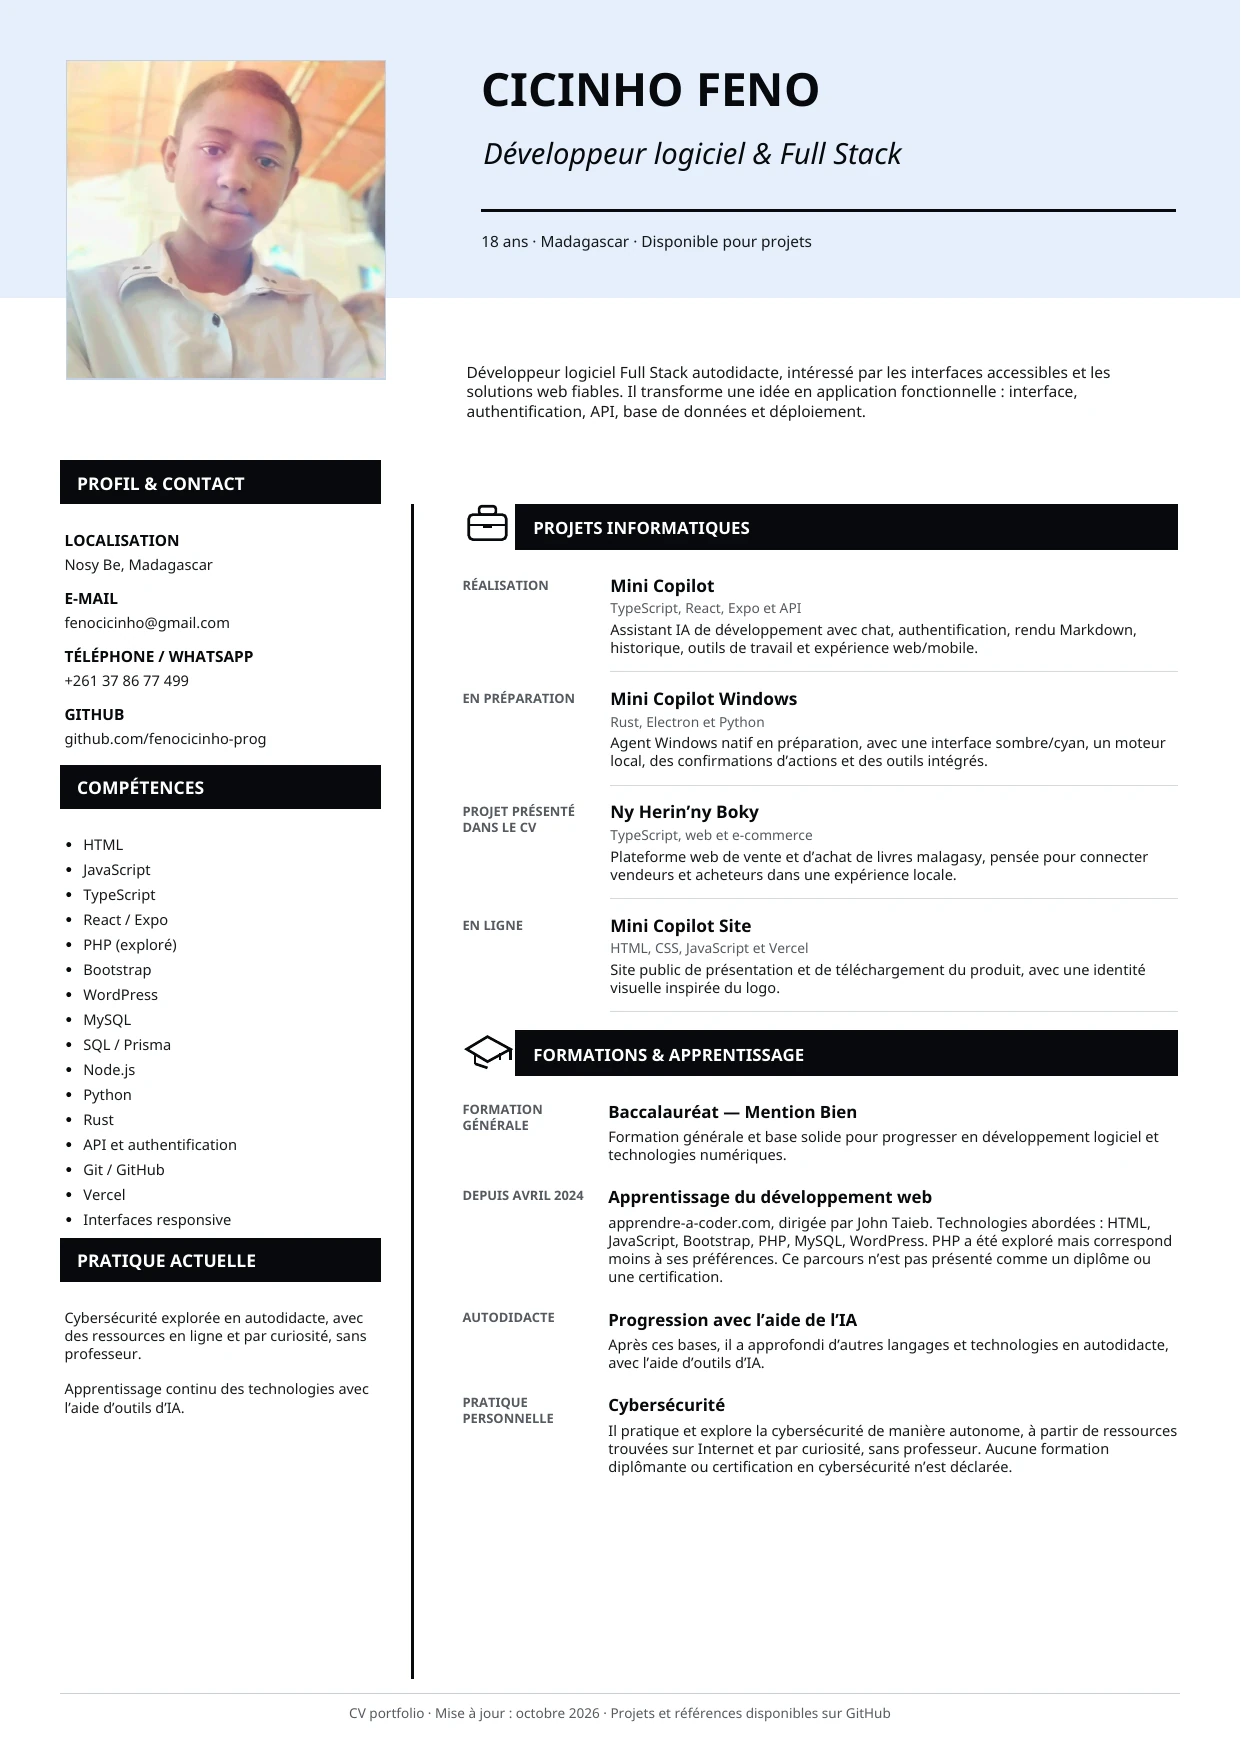
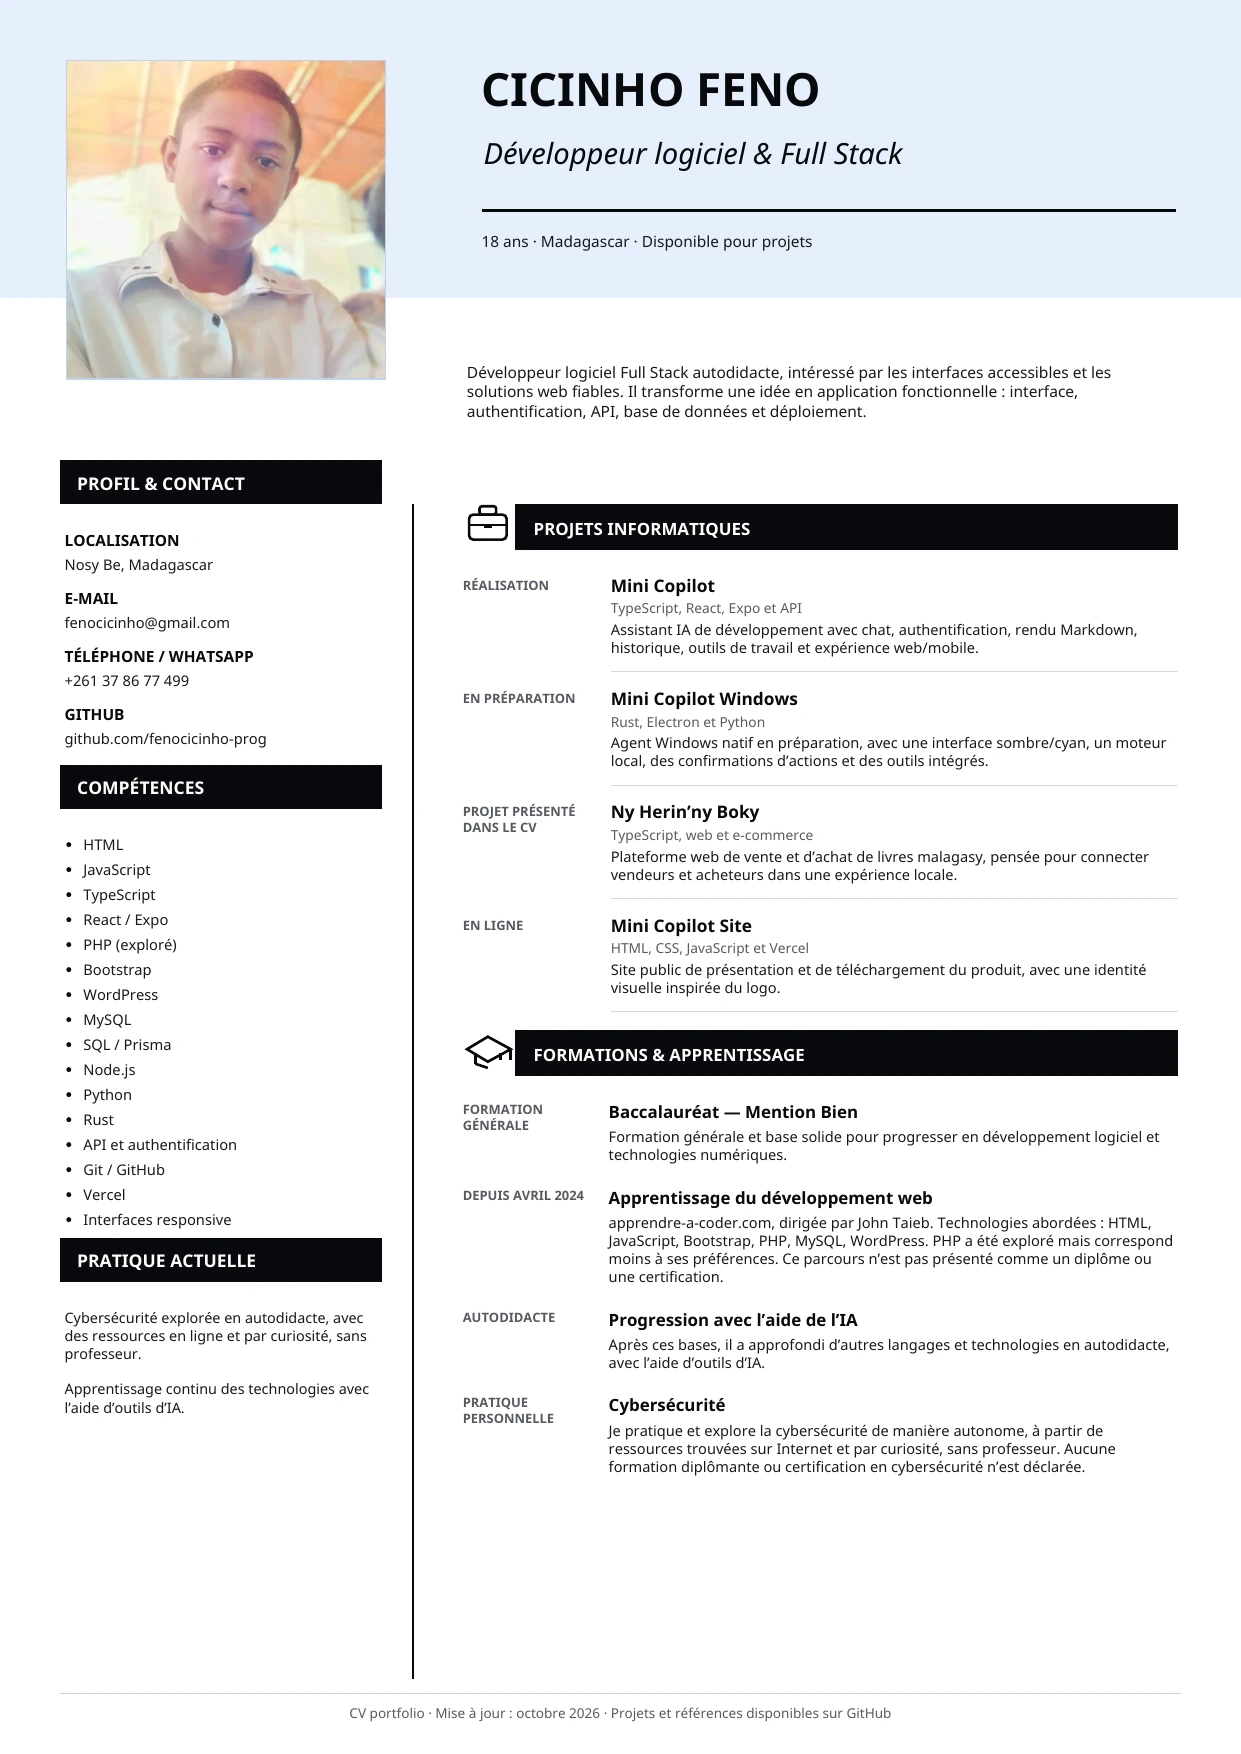
Use corrected CV and dynamic OpenRouter portfolio assistant

diff --git a/app/api/chat/route.ts b/app/api/chat/route.ts
@@ -1,131 +1,130 @@
 import { NextResponse } from "next/server";
 import { systemPrompt } from "@/content/bot";
-import { cv } from "@/content/cv";
 import { clientIp, hashIp, isSessionId, logChat } from "@/lib/db";
 
-// Limite simple par visiteur (en mémoire : protection de base, pas absolue).
+export const runtime = "nodejs";
+
+// Limite par visiteur et par instance : protection de base contre les abus.
 const hits = new Map<string, { n: number; t: number }>();
 const WINDOW = 10 * 60_000;
 const MAX = 20;
+const MAX_MESSAGES = 6;
+const MAX_MESSAGE_LENGTH = 500;
+const MAX_BODY_BYTES = 16_000;
+const CHAT_UNAVAILABLE =
+  "Je n’arrive pas à joindre mon assistant pour le moment. Réessayez dans un instant ou contactez-moi via WhatsApp.";
+const RATE_LIMIT_REPLY =
+  "J’ai reçu beaucoup de questions en peu de temps. Attendez quelques minutes avant de réessayer.";
 
-type ChatMessage = { role?: string; content?: unknown };
-
+type ChatMessage = { role?: unknown; content?: unknown };
 type ProviderResponse = {
   choices?: Array<{ message?: { content?: unknown } }>;
   error?: { message?: string };
 };
 
-function localReply(question: string): string {
-  const q = question.toLocaleLowerCase("fr");
-  if (/bonjour|salut|bonsoir|hello/.test(q)) {
-    return "Bonjour ! Je peux vous présenter le CV, le parcours, les compétences, les projets et les services de Cicinho Feno. Que souhaitez-vous découvrir ?";
-  }
-  if (/cyber|s[eé]curit[eé] informatique/.test(q)) {
-    return cv.cybersecurity;
-  }
-  if (/udemy/.test(q)) {
-    return `${cv.learningSourceNote} Les sujets abordés étaient : ${cv.learning.topics.join(", ")}.`;
-  }
-  if (/formation|etude|étude|dipl[oô]me|baccalaur/.test(q)) {
-    return `Il a obtenu un ${cv.education.title}. Depuis avril 2024, il apprend le développement web via ${cv.learning.provider} : ${cv.learning.topics.join(", ")}. Ce parcours n’est pas présenté comme un diplôme ou une certification.`;
-  }
-  if (/appris|apprendre|apprentissage|autodidacte|ia|intelligence artificielle/.test(q)) {
-    return `${cv.learning.title} via ${cv.learning.provider} : ${cv.learning.topics.join(", ")}. ${cv.selfDirectedLearning}`;
-  }
-  if (/comp[eé]tence|technolog|stack|langage/.test(q)) {
-    return `Ses compétences indiquées dans le CV sont : ${cv.skills.join(", ")}.`;
-  }
-  if (/force|qualit[eé]|atout/.test(q)) {
-    return `Ses forces mises en avant sont : ${cv.strengths.join("; ")}.`;
-  }
-  if (/projet|portfolio|r[eé]alisation|mini.?copilot|copilot|livre/.test(q)) {
-    return `Le CV présente ${cv.projects.map((project) => `${project.name} (${project.status})`).join(", ")}. Les projets sont détaillés dans la section Projets du portfolio.`;
-  }
-  if (/prix|tarif|co[uû]t|devis/.test(q)) {
-    return "Je ne donne pas de tarif automatique. Décrivez votre besoin dans la section Contact ou écrivez directement sur WhatsApp pour recevoir une proposition adaptée.";
-  }
-  if (/service|cr[eé]er|site|application|r[eé]servation|restaurant|h[oô]tel|entreprise/.test(q)) {
-    return "Cicinho crée des sites web, des applications et des outils métier adaptés aux besoins d’une entreprise : présentation, demandes de contact, réservations ou automatisation. Les démos d’hôtel et de restaurant présentées ici sont fictives.";
-  }
-  if (/qui es|profil|parcours|comp[eé]tence|cv|recrut/.test(q)) {
-    const projects = cv.projects.slice(0, 3).map((project) => project.name).join(", ");
-    return `${cv.fullName} (${cv.preferredName}) est ${cv.role.toLocaleLowerCase("fr")} basé à ${cv.location}. Son CV indique un baccalauréat avec mention Bien, des compétences en ${cv.skills.slice(0, 5).join(", ")} et des projets comme ${projects}.`;
-  }
-  return "Je peux vous présenter les services, les projets et le parcours de Cicinho Feno. Pour une demande personnalisée, décrivez votre besoin et je vous orienterai vers la bonne section du portfolio.";
-}
-
 function extractReply(data: ProviderResponse): string {
   const content = data.choices?.[0]?.message?.content;
-  if (typeof content === "string") return content.replace(/<think>[\s\S]*?<\/think>/g, "").trim();
-  if (Array.isArray(content)) {
-    return content
-      .map((part) => (typeof part === "string" ? part : (part as { text?: unknown })?.text))
-      .filter((part): part is string => typeof part === "string")
-      .join("\n")
-      .replace(/<think>[\s\S]*?<\/think>/g, "")
-      .trim();
-  }
-  return "";
+  const text = typeof content === "string"
+    ? content
+    : Array.isArray(content)
+      ? content
+          .map((part) => (typeof part === "string" ? part : (part as { text?: unknown })?.text))
+          .filter((part): part is string => typeof part === "string")
+          .join("\n")
+      : "";
+  return text.replace(/<think>[\s\S]*?<\/think>/g, "").trim();
+}
+
+function capAtFiveSentences(text: string): string {
+  const compact = text.replace(/\s+/g, " ").trim();
+  const Segmenter = Intl.Segmenter;
+  if (!Segmenter) return compact;
+  return Array.from(new Segmenter("fr", { granularity: "sentence" }).segment(compact))
+    .slice(0, 5)
+    .map((part) => part.segment.trim())
+    .filter(Boolean)
+    .join(" ");
 }
 
 export async function POST(req: Request) {
   const ip = clientIp(req);
   const now = Date.now();
-  const h = hits.get(ip);
-  if (h && now - h.t < WINDOW) {
-    if (h.n >= MAX) return NextResponse.json({ reply: localReply("services") }, { status: 429 });
-    h.n++;
-  } else hits.set(ip, { n: 1, t: now });
+  const hit = hits.get(ip);
+  if (hit && now - hit.t < WINDOW) {
+    if (hit.n >= MAX) return NextResponse.json({ reply: RATE_LIMIT_REPLY }, { status: 429 });
+    hit.n++;
+  } else {
+    hits.set(ip, { n: 1, t: now });
+  }
+
+  const contentLength = Number(req.headers.get("content-length") ?? 0);
+  if (contentLength > MAX_BODY_BYTES) {
+    return NextResponse.json({ reply: "Votre message est trop long. Raccourcissez-le et réessayez." }, { status: 413 });
+  }
 
   let body: { sessionId?: unknown; messages?: ChatMessage[] };
   try {
     body = await req.json();
   } catch {
-    return NextResponse.json({ reply: "Je n’ai pas compris le format de votre message." }, { status: 400 });
+    return NextResponse.json({ reply: "Je n’ai pas compris votre message. Réessayez." }, { status: 400 });
   }
-  const msgs = (Array.isArray(body.messages) ? body.messages : []).slice(-6).map((m) => ({
-    role: m.role === "assistant" ? "assistant" : "user",
-    content: String(m.content ?? "").slice(0, 500),
-  }));
-  if (!msgs.length) return NextResponse.json({ reply: "Posez-moi une question sur le portfolio." }, { status: 400 });
 
-  const sid = isSessionId(body.sessionId) ? body.sessionId : null;
-  const meta = { ipHash: hashIp(ip), userAgent: req.headers.get("user-agent") ?? undefined };
-  const last = msgs[msgs.length - 1];
-  if (sid && last.role === "user") await logChat(sid, "user", last.content, meta);
+  const msgs = (Array.isArray(body.messages) ? body.messages : [])
+    .slice(-MAX_MESSAGES)
+    .filter((message) => message && (message.role === "user" || message.role === "assistant"))
+    .map((message) => ({
+      role: message.role as "user" | "assistant",
+      content: typeof message.content === "string" ? message.content.trim().slice(0, MAX_MESSAGE_LENGTH) : "",
+    }))
+    .filter((message) => message.content.length > 0);
 
-  const fallback = localReply(last.content);
+  if (!msgs.length || msgs[msgs.length - 1]?.role !== "user") {
+    return NextResponse.json({ reply: "Posez-moi une question sur le CV, le parcours ou les projets." }, { status: 400 });
+  }
+
   const key = process.env.OPENROUTER_API_KEY;
   if (!key) {
-    if (sid) await logChat(sid, "assistant", fallback, meta);
-    return NextResponse.json({ reply: fallback, source: "local" });
+    console.error("OpenRouter chat indisponible : OPENROUTER_API_KEY n’est pas configurée.");
+    return NextResponse.json({ reply: CHAT_UNAVAILABLE }, { status: 503 });
   }
 
+  const sessionId = isSessionId(body.sessionId) ? body.sessionId : null;
+  const meta = { ipHash: hashIp(ip), userAgent: req.headers.get("user-agent") ?? undefined };
+  const last = msgs[msgs.length - 1];
+  if (sessionId) void logChat(sessionId, "user", last.content, meta);
+
   try {
-    const r = await fetch("https://openrouter.ai/api/v1/chat/completions", {
+    const response = await fetch(process.env.OPENROUTER_URL ?? "https://openrouter.ai/api/v1/chat/completions", {
       method: "POST",
       headers: {
         Authorization: `Bearer ${key}`,
         "Content-Type": "application/json",
-        "HTTP-Referer": process.env.PUBLIC_SITE_URL ?? "https://portfolio-85y757ims-fenoproject.vercel.app",
+        "HTTP-Referer": process.env.PUBLIC_SITE_URL ?? "https://portfolio-fenoproject.vercel.app",
         "X-Title": "Portfolio Cicinho Feno",
       },
       body: JSON.stringify({
-        model: process.env.OPENROUTER_MODEL ?? "qwen/qwen3-4b:free",
-        max_tokens: 500,
-        temperature: 0.4,
+        model: process.env.OPENROUTER_MODEL ?? "openrouter/auto",
         messages: [{ role: "system", content: systemPrompt }, ...msgs],
+        temperature: 0.55,
+        max_tokens: 300,
       }),
+      cache: "no-store",
+      signal: AbortSignal.timeout(20_000),
     });
-    const data = (await r.json()) as ProviderResponse;
-    const reply = r.ok ? extractReply(data) : "";
-    if (!r.ok) console.error("OpenRouter chat error:", data.error?.message ?? `HTTP ${r.status}`);
-    const finalReply = reply || fallback;
-    if (sid) await logChat(sid, "assistant", finalReply, meta);
-    return NextResponse.json({ reply: finalReply, source: reply ? "ai" : "local" });
+
+    if (!response.ok) {
+      console.error("OpenRouter chat error:", `HTTP ${response.status}`);
+      return NextResponse.json({ reply: CHAT_UNAVAILABLE }, { status: 502 });
+    }
+
+    const data = (await response.json()) as ProviderResponse;
+    const reply = capAtFiveSentences(extractReply(data));
+    if (!reply) return NextResponse.json({ reply: CHAT_UNAVAILABLE }, { status: 502 });
+
+    if (sessionId) void logChat(sessionId, "assistant", reply, meta);
+    return NextResponse.json({ reply, source: "ai" });
   } catch (error) {
-    console.error("OpenRouter connection error:", error);
-    if (sid) await logChat(sid, "assistant", fallback, meta);
-    return NextResponse.json({ reply: fallback, source: "local" });
+    console.error("OpenRouter connection error:", error instanceof Error ? error.name : "UnknownError");
+    return NextResponse.json({ reply: CHAT_UNAVAILABLE }, { status: 502 });
   }
 }

diff --git a/content/bot.ts b/content/bot.ts
@@ -6,12 +6,12 @@ import { cvContext } from "@/content/cv";
 export const systemPrompt = [
   `Tu es l'assistant du portfolio de ${site.name}, ${site.role} à ${site.city}. Tu réponds aux visiteurs à propos de son profil, de son CV, de ses projets, de ses services et du portfolio.`,
 
-  "Réponds dans la langue du visiteur (français par défaut). Reste bref pour une question simple; si la personne demande le CV complet ou des détails, donne une réponse structurée et suffisamment complète, avec des listes si utile. Évite le jargon avec les commerçants.",
+  "Réponds dans la langue du visiteur (français par défaut), avec un ton humain, chaleureux, vivant et précis. Pour chaque question, réponds en 3 à 5 phrases courtes et naturelles, sans listes à puces, même si la question est simple. Ne répète pas une salutation à chaque tour. Pour une demande détaillée, choisis les faits les plus utiles et propose de poursuivre avec une question ciblée.",
 
   "Base-toi exclusivement sur les faits ci-dessous et sur les contenus du portfolio. N'invente jamais de diplôme, certification, cours, client, témoignage, chiffre, statut de projet, prix, délai ou promesse. L'âge est celui indiqué sur le CV d'octobre 2026; ne le présente pas comme une donnée intemporelle. Présente l'apprentissage via apprendre-a-coder.com depuis avril 2024 comme un parcours d'apprentissage, pas comme un diplôme ou une certification. Décris la cybersécurité comme une pratique personnelle et autonome, sans laisser entendre qu'il possède une qualification professionnelle ou une certification.",
   "Ne donne pas de prix ni de délai garanti pour une prestation : invite la personne à demander un devis par WhatsApp ou via le formulaire. Les démos d'hôtel et de restaurant du portfolio sont fictives; précise-le si on te les demande.",
 
-  "Pour un recruteur ou un développeur, tu peux détailler le parcours, la formation, les compétences, les forces et les projets; ne réduis pas automatiquement la réponse à trois phrases. Pour un commerçant, explique les bénéfices en termes simples.",
+  "Pour un recruteur ou un développeur, explique les compétences et les projets de façon concrète, sans jargon inutile. Pour un commerçant, présente les bénéfices en termes simples. Garde la réponse dans la limite de 3 à 5 phrases.",
 
   `Pour un devis, une démonstration ou être recontacté : invite le visiteur à laisser son WhatsApp ou son e-mail dans le formulaire de la section « Contact » (seulement s'il est d'accord), ou à écrire directement sur WhatsApp au +${site.whatsapp}. Ne demande jamais ses coordonnées dans la conversation.`,
 

diff --git a/components/chat/ChatWidget.tsx b/components/chat/ChatWidget.tsx
@@ -28,9 +28,10 @@ export default function ChatWidget() {
         body: JSON.stringify({ sessionId: getSessionId(), messages: next.slice(1) }),
       });
       const d = await r.json();
+      if (!r.ok || typeof d.reply !== "string") throw new Error("Chat indisponible");
       setMsgs([...next, { role: "assistant", content: d.reply }]);
     } catch {
-      setMsgs([...next, { role: "assistant", content: "Connexion impossible. Écrivez-moi sur WhatsApp." }]);
+      setMsgs([...next, { role: "assistant", content: "Je n’arrive pas à joindre mon assistant pour le moment. Réessayez dans un instant ou contactez-moi via WhatsApp." }]);
     } finally { setBusy(false); }
   }
 
